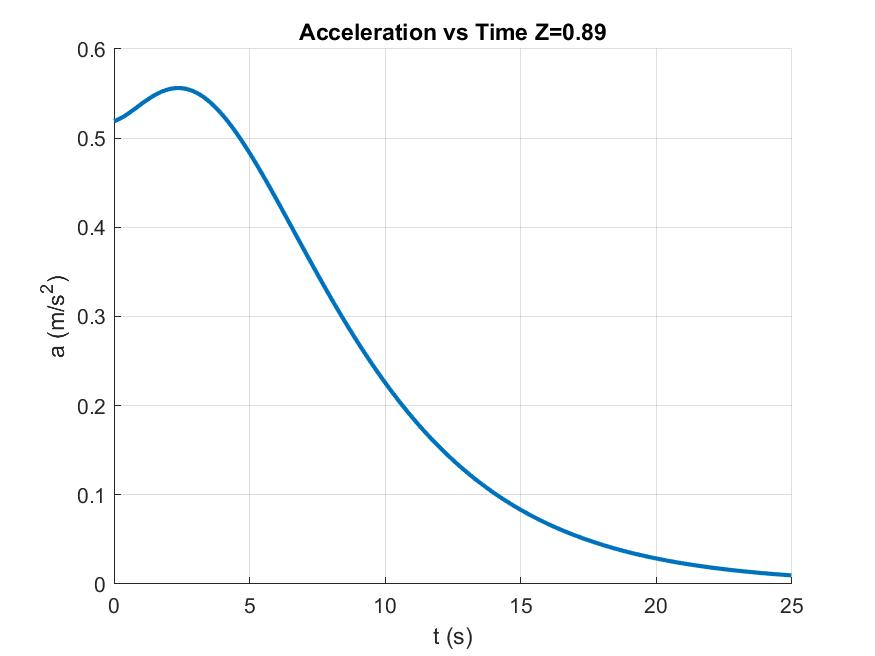
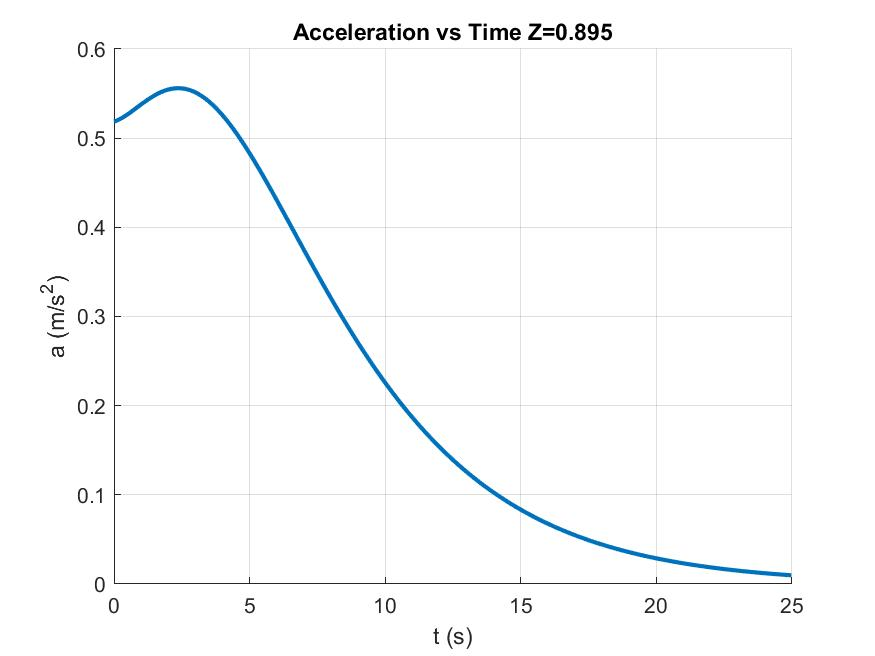
Focused Z Range

Changed region(s): [[0.3394, 0.0305, 0.7097, 0.061], [0.1234, 0.1524, 0.1543, 0.1829]]

diff --git a/Simulate.m b/Simulate.m
@@ -8,7 +8,7 @@ function v_range = Simulate(vehicle, t_f)
 	plot(t_range, v_range, 'LineWidth', 2);
 	xlabel('t (s)');
 	ylabel('v (m/s)');
-	title(sprintf('Velocity vs Time Z=%.2f', vehicle.Z));
+	title(sprintf('Velocity vs Time Z=%.3f', vehicle.Z));
 	saveas(gcf, 'Velocity vs Time', 'jpeg');
 	figure();
 	hold('on');
@@ -16,7 +16,7 @@ function v_range = Simulate(vehicle, t_f)
 	plot(t_range, a_range, 'LineWidth', 2);
 	xlabel('t (s)');
 	ylabel('a (m/s^2)');
-	title(sprintf('Acceleration vs Time Z=%.2f', vehicle.Z));
+	title(sprintf('Acceleration vs Time Z=%.3f', vehicle.Z));
 	saveas(gcf, 'Acceleration vs Time', 'jpeg');
 	figure();
 	hold('on');
@@ -29,7 +29,7 @@ function v_range = Simulate(vehicle, t_f)
 	plot(t_range, F_net_range, 'LineWidth', 2);
 	xlabel('t (s)');
 	ylabel('F (N)');
-	title(sprintf('Forces vs Time Z=%.2f', vehicle.Z));
+	title(sprintf('Forces vs Time Z=%.3f', vehicle.Z));
 	legend('F_t', 'F_d', 'F_q', 'F_s', 'F_c', 'F_{net}', 'Location', 'Best');
 	saveas(gcf, 'Forces vs Time', 'jpeg');
 end

diff --git a/VelocityRelations.m b/VelocityRelations.m
@@ -13,7 +13,7 @@ function v_range = VelocityRelations(vehicle)
 	plot(v_range(k_range), a_range(k_range), 'LineWidth', 2);
 	ylabel('a (m/s^2)');
 	xlabel('v (m/s)');
-	title(sprintf('Acceleration vs Velocity Z=%.2f', vehicle.Z));
+	title(sprintf('Acceleration vs Velocity Z=%.3f', vehicle.Z));
 	saveas(gcf, 'Acceleration vs Velocity', 'jpeg');
 	figure();
 	hold('on');
@@ -26,7 +26,7 @@ function v_range = VelocityRelations(vehicle)
 	plot(v_range(k_range), F_net_range(k_range), 'LineWidth', 2);
 	ylabel('F (N)');
 	xlabel('v (m/s)');
-	title(sprintf('Forces vs Velocity Z=%.2f', vehicle.Z));
+	title(sprintf('Forces vs Velocity Z=%.3f', vehicle.Z));
 	legend('F_t', 'F_d', 'F_q', 'F_s', 'F_c', 'F_{net}', 'Location', 'Best');
 	saveas(gcf, 'Forces vs Velocity', 'jpeg');
 end

diff --git a/Main.m b/Main.m
@@ -20,18 +20,18 @@ fprintf(fileID, fan.RootMeanSquare());
 
 F_d = DragForce(fileID);
 
-Z_min = 0.1;
-Z_max = 5;
-Z_step = 0.01;
+Z_min = 0.7;
+Z_max = 1;
+Z_step = 0.001;
 Z_range = Z_min:Z_step:Z_max;
-fprintf(fileID, 'Z_min=%.2f Z_max=%.2f Z_step=%.2f\n', Z_min, Z_max, Z_step);
+fprintf(fileID, 'Z_min=%.3f Z_max=%.3f Z_step=%.3f\n', Z_min, Z_max, Z_step);
 
 air = Air(5);
 [v_top, Z_best] = SearchTransmissionRatios(air, fan, Z_range, F_d);
 vehicle = Vehicle(air, fan, Z_best, F_d);
 v = Simulate(vehicle, 25);
 [v_min, v_max] = vehicle.SpeedBoundary();
-fprintf(fileID, 'Z=%.2f v_top=%.1fm/s B=[%.1f, %.1f]m/s\n', Z_best, v_top, v_min, v_max);
+fprintf(fileID, 'Z=%.3f v_top=%.3fm/s B=[%.3f, %.3f]m/s\n', Z_best, v_top, v_min, v_max);
 
 VelocityRelations(vehicle);
 

diff --git a/SearchWindSpeeds.m b/SearchWindSpeeds.m
@@ -25,6 +25,6 @@ function SearchWindSpeeds(fan, v_w_range, Z_fixed, Z_range, F_d)
 	ylabel('v_{top} (m/s)');
 	plot(v_w_range, v_top_range, 'LineWidth', 2);
 	plot(v_w_range, v_fixed_range, 'LineWidth', 2);
-	legend('Z=Z_{best}(v_w)', sprintf('Z=%.2f', Z_fixed), 'Location', 'Best');
+	legend('Z=Z_{best}(v_w)', sprintf('Z=%.3f', Z_fixed), 'Location', 'Best');
 	saveas(gcf, 'Top Speed vs Wind Speed', 'jpeg');
 end
